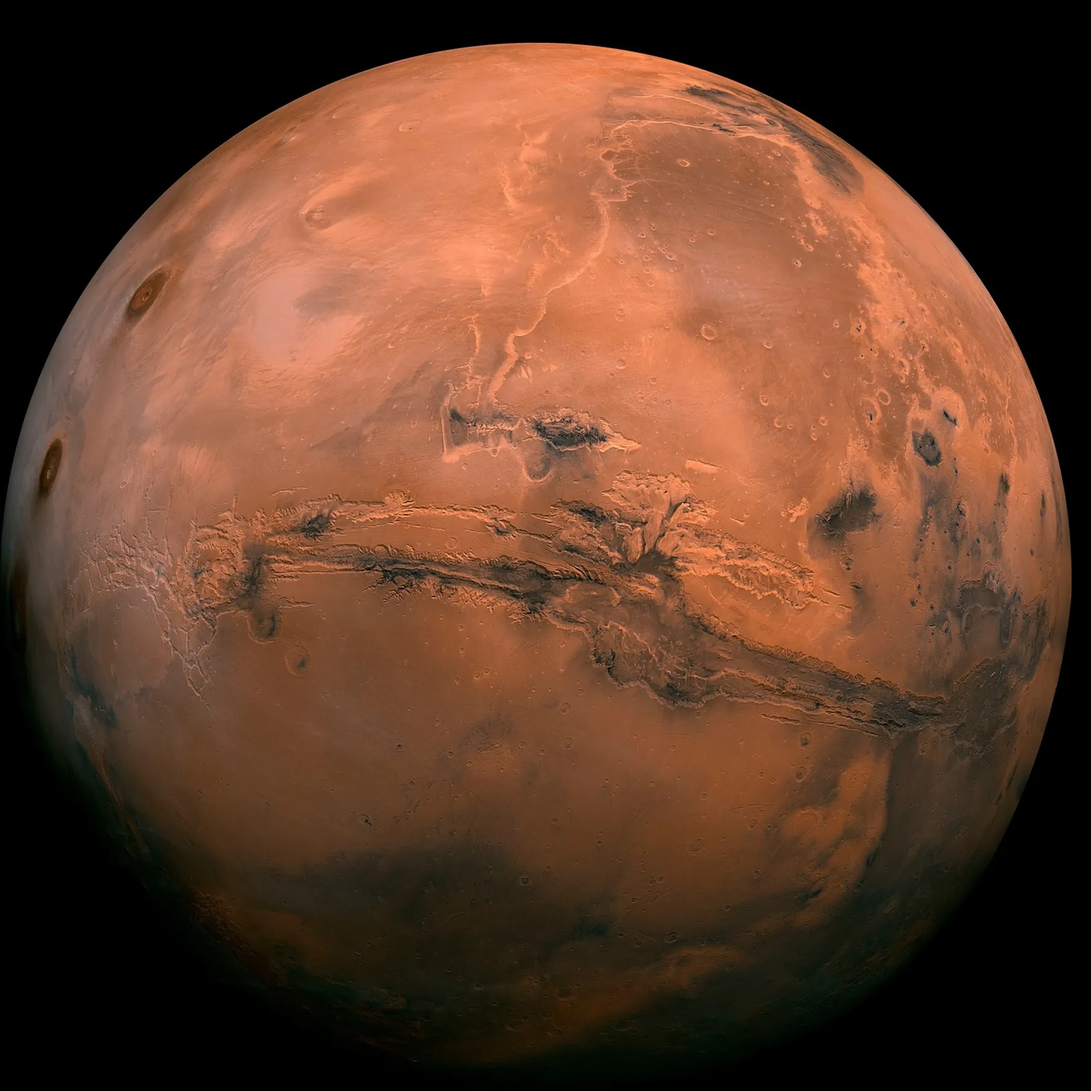
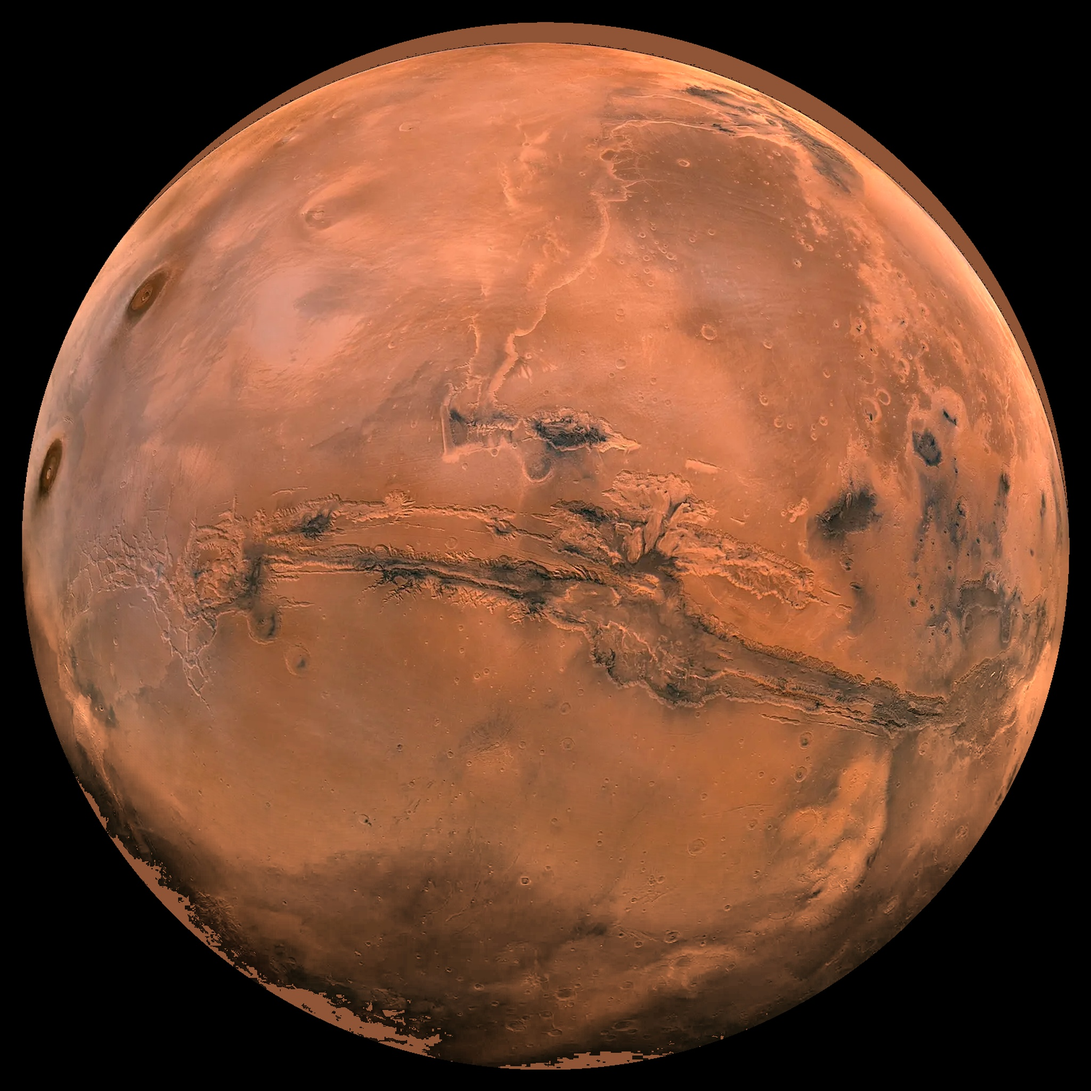
Terra até Marte: Terra mais longe, Marte com a sombra de baixo preenchida, Phobos menor e sumindo antes
Claude-Session: https://claude.ai/code/session_013Wq3K2QfDjABdZYwW9KyJz

diff --git a/videos/terra-marte/index.html b/videos/terra-marte/index.html
@@ -263,7 +263,7 @@ void main(){
     // perto da borda, o preto da foto vira transparente (mostra o espaço)
     float rr = length(vec2(dot(d,lX), dot(d,lY)));
     float aM = mix(1.0, smoothstep(.002,.02, max(cm.r,max(cm.g,cm.b))), smoothstep(.80,.93,rr));
-    col = mix(col, cm, aM*clamp((RM-bM)/(tM*pxa), 0., 1.));
+    col = mix(col, cm, clamp((RM-bM)/(tM*pxa), 0., 1.));
   }
   // Phobos (foto recortada), na frente de Marte
   if(pA>0.){
@@ -368,8 +368,8 @@ const nLua=nrm(add(mul(L,0.38),mul(Qn,0.925)));  // onde chegamos na Lua (sol ba
 function camera(t){
   // 0–15,5 s: afasta da Terra; 10,5–14: vira para Marte; 12,5–16: zoom de telescópio;
   // depois Marte cresce sem pausa até encher a tela (câmera para a 4 raios, campo de telescópio)
-  const DA=5.2;
-  const dist=Math.exp(lerp(Math.log(2.5),Math.log(DA),ease(seg(t,0,15.5))));
+  const DA=7.0;
+  const dist=Math.exp(lerp(Math.log(4.0),Math.log(DA),ease(seg(t,0,15.5))));
   const pA_end=mul(u0,DA);
   const kC=ease(seg(t,15.5,47.5));
   const d0=len(sub(pA_end,M)), dir0=nrm(sub(pA_end,M));
@@ -386,7 +386,7 @@ function camera(t){
   return {pos,look,fov,upRef:[0,1,0]};
 }
 // eixos da foto de Marte: virada para quem chega da Terra
-const DIR0=nrm(sub(mul(u0,5.2),M));
+const DIR0=nrm(sub(mul(u0,7.0),M));
 const MX=nrm(cross(mul(DIR0,-1),[0,1,0])), MY=cross(MX,mul(DIR0,-1));
 let AX=[1,0,0],AY=[0,1,0];
 { const c=camera(59.9); const F=nrm(c.look); AX=nrm(cross(F,[0,1,0])); AY=cross(AX,F); }
@@ -414,8 +414,8 @@ window.render=function(t){
   gl.uniform1i(U('texA'),2); gl.uniform1i(U('texP'),3);
   // Phobos: entre a câmera e Marte, passa devagar de um lado para o outro e some no fim
   const P=add(M,add(mul(DIR0,2.8*RM),add(mul(MX,lerp(-0.55,0.22,seg(t,18,46))*RM),mul(MY,0.20*RM))));
-  gl.uniform3fv(U('pP'),sub(P,c.pos)); gl.uniform1f(U('pR'),0.03*RM);
-  gl.uniform1f(U('pA'),ease(seg(t,21,26))*(1-ease(seg(t,41,45.5)))); gl.uniform1f(U('pRot'),0.25+t*0.012);
+  gl.uniform3fv(U('pP'),sub(P,c.pos)); gl.uniform1f(U('pR'),0.014*RM);
+  gl.uniform1f(U('pA'),ease(seg(t,21,26))*(1-ease(seg(t,35,40.5)))); gl.uniform1f(U('pRot'),0.25+t*0.012);
   gl.uniform1i(U('texT'),0); gl.uniform1i(U('texL'),1);
   gl.uniform1f(U('rotE'),window.ROTE??0);
   gl.uniform1f(U('fade'),Math.min(1,t/1.0,(DUR-t)/1.0));
